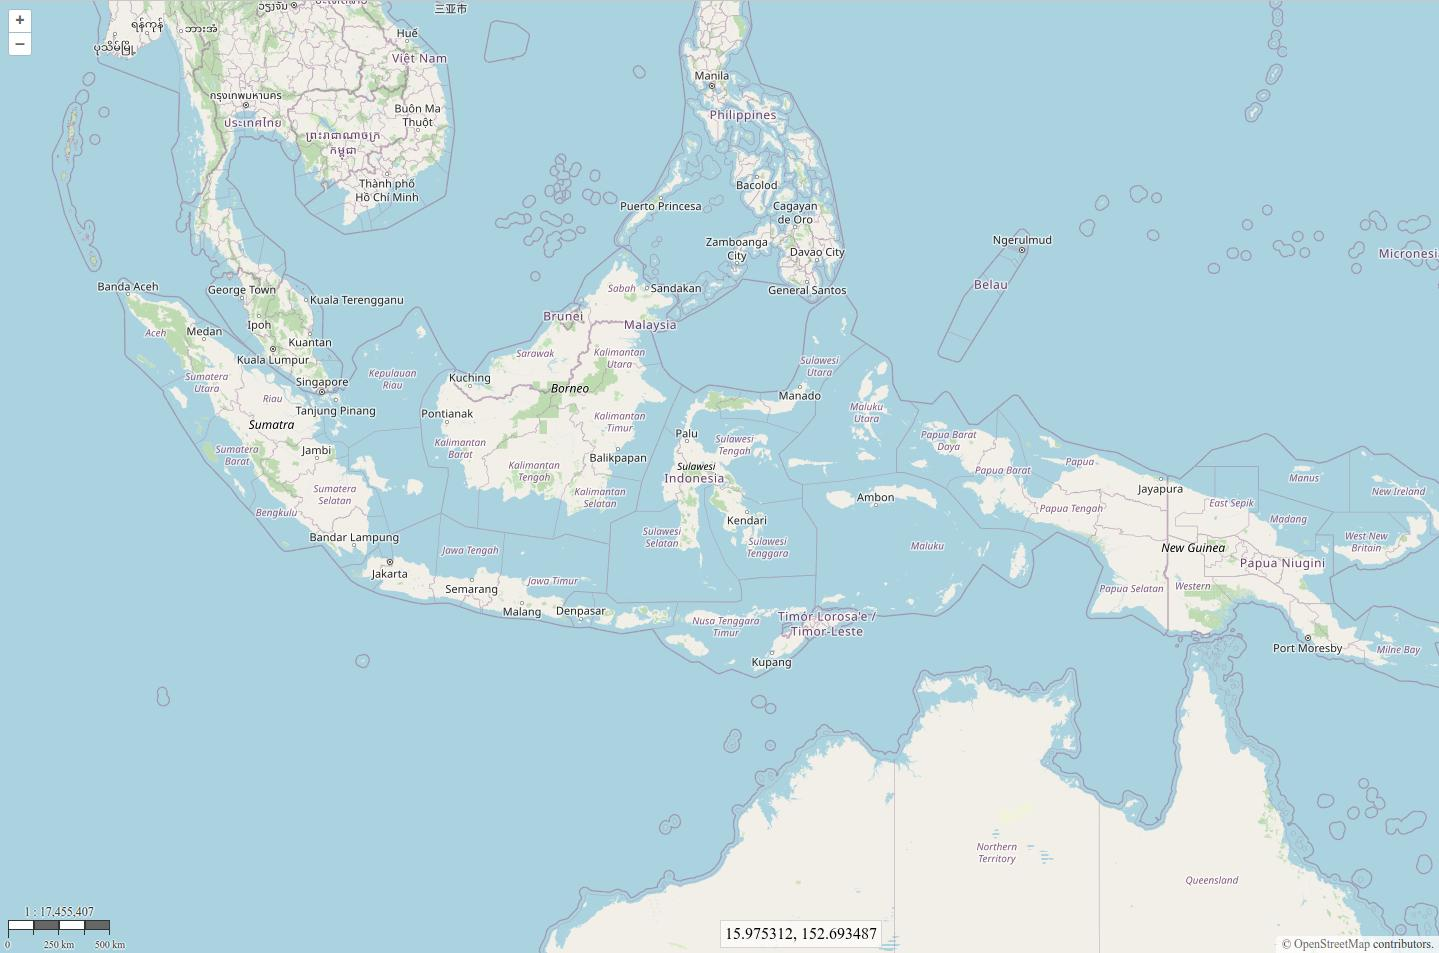
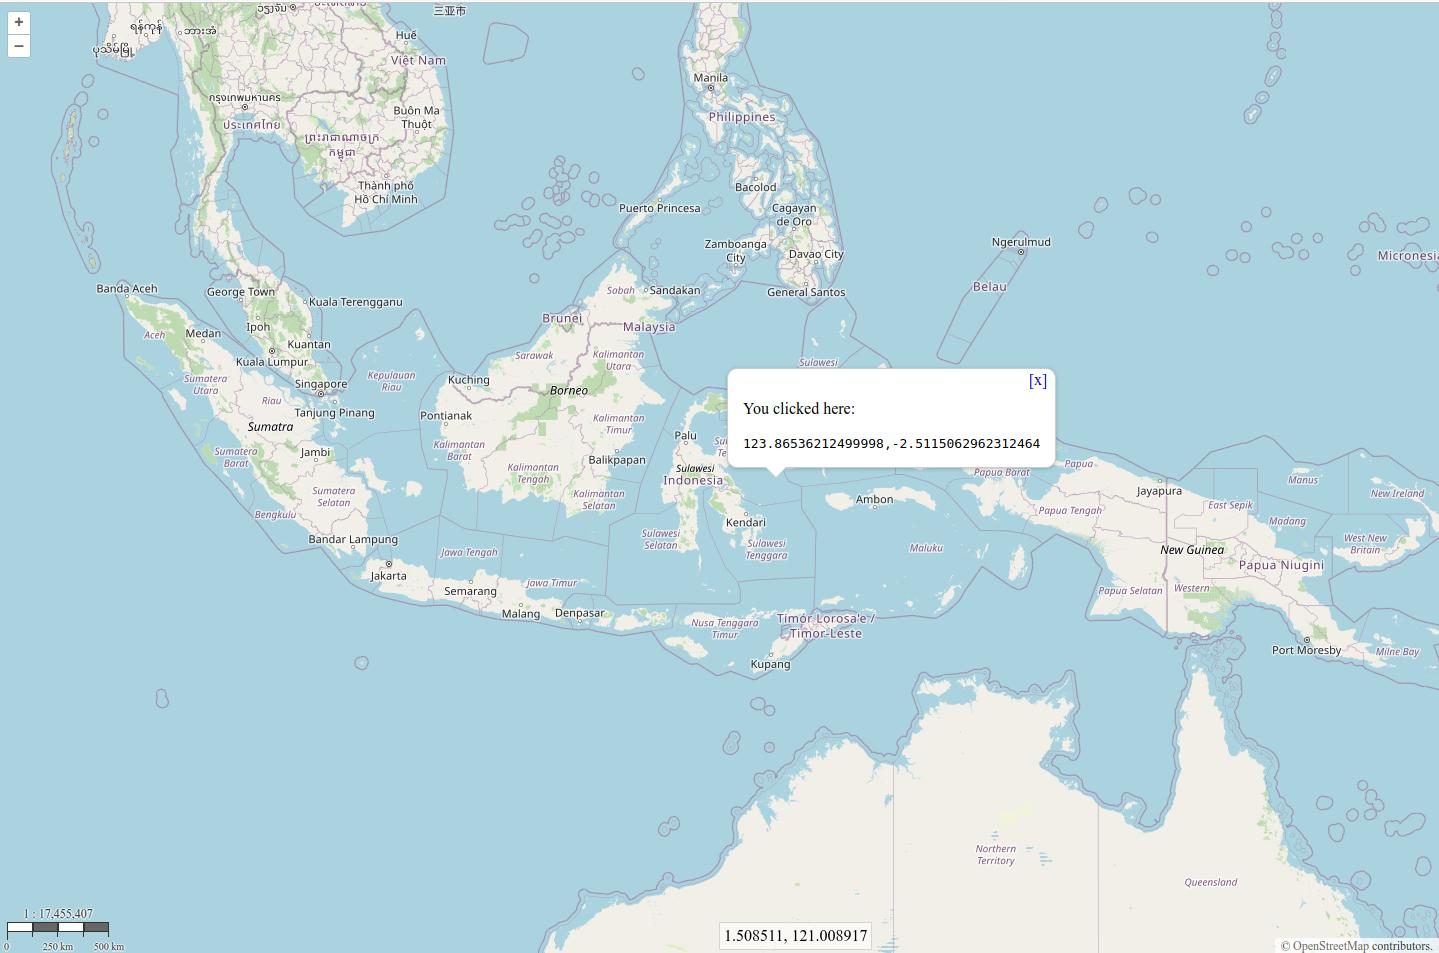
add popup

diff --git a/main.js b/main.js
@@ -1,10 +1,11 @@
 import Map from "ol/Map";
+import Overlay from "ol/Overlay";
 import View from "ol/View";
 import MousePosition from "ol/control/MousePosition";
 import { format } from "ol/coordinate";
 import ScaleLine from "ol/control/ScaleLine";
 import TileLayer from "ol/layer/Tile";
-import { fromLonLat } from 'ol/proj';
+import { fromLonLat, toLonLat } from 'ol/proj';
 import OSM from "ol/source/OSM";
 
 import "ol/ol.css";
@@ -43,3 +44,31 @@ const scaleControl = new ScaleLine({
 });
 
 map.addControl(scaleControl);
+
+const container = document.getElementById('popup');
+const content = document.getElementById('popup-content');
+const closer = document.getElementById('popup-closer');
+
+const popup = new Overlay({
+  element: container,
+  autoPan: true,
+  autoPanAnimation: {
+    duration: 250,
+  },
+});
+
+map.addOverlay(popup);
+
+closer.onclick = function () {
+  popup.setPosition(undefined);
+  closer.blur();
+  return false;
+};
+
+map.on('singleclick', function (evt) {
+  const coordinate = evt.coordinate;
+  const hdms = toLonLat(coordinate);
+
+  content.innerHTML = '<p>You clicked here:</p><code>' + hdms + '</code>';
+  popup.setPosition(coordinate);
+});

diff --git a/style.css b/style.css
@@ -22,3 +22,51 @@ body{
   top: auto;
   transform: translateX();
 }
+
+.ol-popup {
+  position: absolute;
+  background-color: white;
+  box-shadow: 0 1px 4px rgba(0, 0, 0, 0.2);
+  padding: 15px;
+  border-radius: 10px;
+  border: 1px solid #cccccc;
+  bottom: 12px;
+  left: -50px;
+  min-width: 280px;
+}
+
+.ol-popup:after,
+.ol-popup:before {
+  top: 100%;
+  border: solid transparent;
+  content: " ";
+  height: 0;
+  width: 0;
+  position: absolute;
+  pointer-events: none;
+}
+
+.ol-popup:after {
+  border-top-color: white;
+  border-width: 10px;
+  left: 48px;
+  margin-left: -10px;
+}
+
+.ol-popup:before {
+  border-top-color: #cccccc;
+  border-width: 11px;
+  left: 48px;
+  margin-left: -11px;
+}
+
+.ol-popup-closer {
+  text-decoration: none;
+  position: absolute;
+  top: 2px;
+  right: 8px;
+}
+
+.ol-popup-closer:after {
+  content: "[x]";
+}

diff --git a/index.html b/index.html
@@ -10,6 +10,10 @@
 
 <body>
   <div id="map" class="map"></div>
+  <div id="popup" class="ol-popup">
+    <a href="#" id="popup-closer" class="ol-popup-closer">&nbsp;</a>
+    <div id="popup-content"></div>
+  </div>
   <script type="module" src="/main.js"></script>
 </body>
 
